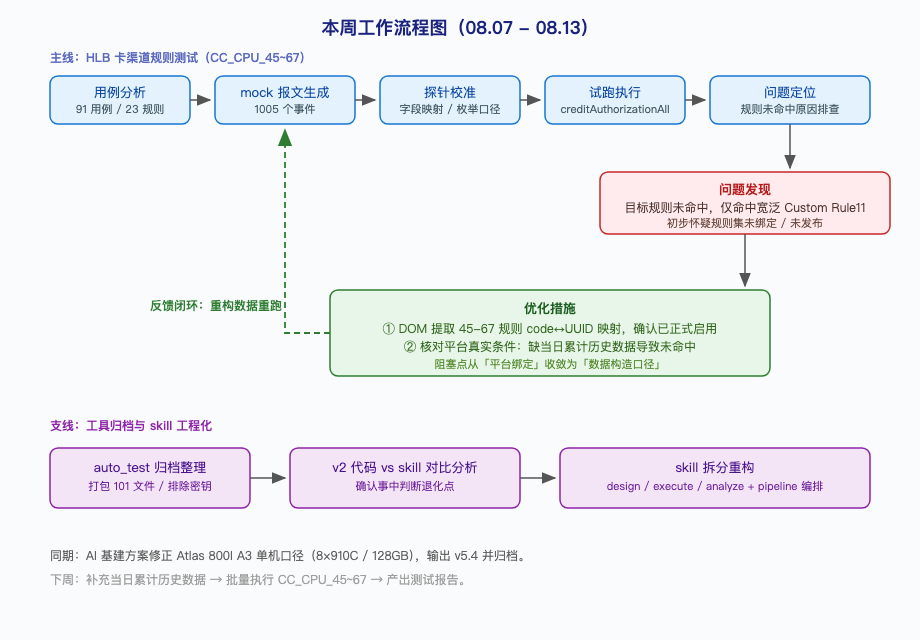
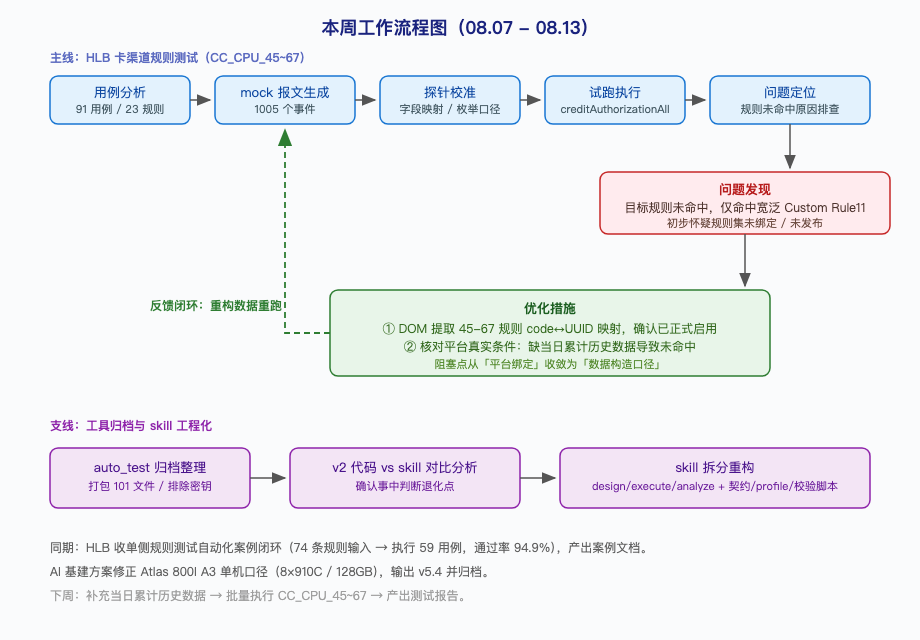
[2026-08-12] 日常 - 周报补充收单侧自动化案例

Changed region(s): [[0.0304, 0.8438, 0.7, 0.9375], [0.6391, 0.75, 0.913, 0.7812]]

diff --git a/日常/2026-08-07-08-13/周报.md b/日常/2026-08-07-08-13/周报.md
@@ -1,6 +1,6 @@
 # 26年：08.07-08.13
 
-本周工作围绕 HLB 项目卡渠道规则测试展开，初步完成了 CC_CPU_45~67 共 91 条用例的执行准备与问题定位，将目标规则未命中的原因从「平台绑定问题」收敛到「数据构造口径问题」；同时对旧版测试工具做了归档与对比分析，并完成 AI 基建方案的一处关键修正。
+本周工作围绕 HLB 项目规则测试自动化展开：收单侧初步跑通「规则描述输入 → 用例生成 → 执行验证」完整闭环并沉淀为可复用的 skill 体系；卡渠道 CC_CPU_45~67 沿同一路径推进执行准备，将目标规则未命中的原因从「平台绑定问题」收敛到「数据构造口径问题」。
 
 ![本周工作流程图](workflow.png)
 
@@ -8,15 +8,15 @@
 
 🚀 **HLB 卡渠道 CC_CPU_45~67 测试准备基本完成**：分析了用例工作簿中 23 条规则的 91 条用例，生成全部 mock 报文（1005 个事件），并通过探针实测校准了字段映射与枚举口径。执行中发现目标规则未命中，本周定位原因为探针缺少当日累计历史数据（如 CC_CPU_60 要求当日累计金额达标），同时提取了 45-67 规则的编码与 UUID 映射，确认规则集已正式启用。
 
-💡 **旧版测试工具归档与对比分析**：整理打包 auto_test 归档目录（排除密钥与旧副本），并与 risk-rule-testcase skill 逐环节对比，确认 v2 代码基于平台元数据判断「事中」语义比 skill 的文本猜测更可靠，明确了 skill 作为「文档交付」分支的定位与已知退化点。
+🔥 **收单侧规则测试自动化案例闭环与 skill 优化**：以 74 条规则的详细描述为输入，跑通用例生成与执行验证全流程（累计执行 59 条用例，通过率 94.9%），并沉淀为案例文档。成果同步落地到 skill 重构：单体 risk-rule-testcase 拆分为 design / execute / analyze 三个子 skill，15 条核心规范整理为 test-data-contract.md，HLB 项目配置独立为 acquiring-hlb-profile.md 支持多项目复用，新增 validate-test-data.js 自动校验 8 类数据质量问题。
 
-🔥 **测试用例 skill 拆分重构**：将单体 risk-rule-testcase skill 备份并拆分为 design / execute / analyze 三个子 skill 加流水线编排，各阶段职责独立，便于单独调用与维护。
+💡 **旧版测试工具归档与对比分析**：整理打包 auto_test 归档目录（排除密钥与旧副本），并与 risk-rule-testcase skill 逐环节对比，确认 v2 代码基于平台元数据判断「事中」语义比 skill 的文本猜测更可靠，明确了 skill 作为「文档交付」分支的定位与已知退化点。
 
 💡 **AI 基建方案修正**：更正华为 Atlas 800I A3 单机配置为官方口径 8×910C（单卡 128GB），确认非信创路线 H20 配置的显存瓶颈逻辑，输出 v5.4 版本并归档。
 
 ## 二、当前判断
 
-卡渠道测试的整体链路已初步验证，执行阻塞点从「平台绑定/发布问题」转变为「数据构造口径问题」，准备工作基本就绪，但批量执行和报告产出尚未完成。skill 与旧版代码在事中判断口径上的差距是已知的实质性退化点，后续需要补齐。
+规则测试自动化的整体链路已在收单侧得到验证，并形成可复用的 skill 体系；卡渠道测试正沿同一路径推进，准备工作基本就绪，当前阻塞点是当日累计类指标的数据构造口径，批量执行和报告产出尚未完成。skill 与旧版代码在事中判断口径上的差距是已知的实质性退化点，后续需要补齐。
 
 ## 三、当前关注点
 
